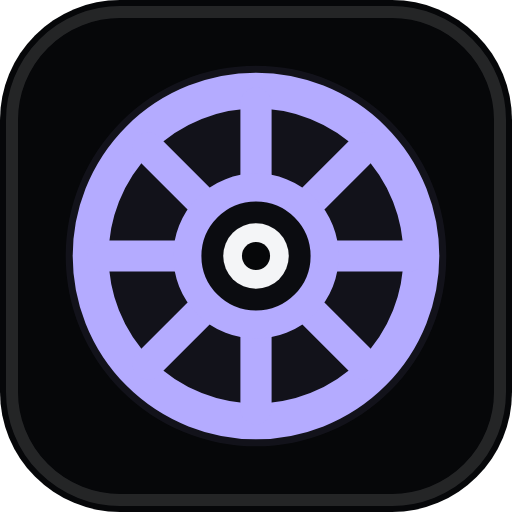
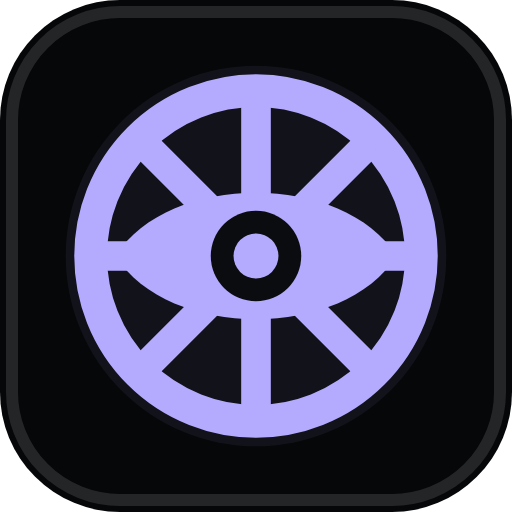
feat: emblème de la roue à œil en amande, pilule contextuelle du profil, actions de palette, documentation de la passe UI

diff --git a/src/components/layout/Nav.tsx b/src/components/layout/Nav.tsx
@@ -3,6 +3,8 @@ import { NavLink, useLocation } from "react-router";
 import { Kbd, cn } from "@/components/ui";
 import { SteamButton } from "@/features/auth/SteamButton";
 import { useSession } from "@/features/auth/useSession";
+import { RankBadge } from "@/components/media/RankBadge";
+import { useNavSubject } from "./navContext";
 import { MobileMenu } from "./MobileMenu";
 import { UserMenu } from "./UserMenu";
 import { Wordmark } from "./Wordmark";
@@ -29,9 +31,14 @@ export function Nav({ onOpenSearch }: { onOpenSearch: () => void }) {
   const { pathname } = useLocation();
   const [scrolled, setScrolled] = useState(false);
   const [menuOpen, setMenuOpen] = useState(false);
+  const subject = useNavSubject();
+  const [deep, setDeep] = useState(false);
 
   useEffect(() => {
-    const onScroll = () => setScrolled(window.scrollY > 8);
+    const onScroll = () => {
+      setScrolled(window.scrollY > 8);
+      setDeep(window.scrollY > 320);
+    };
     onScroll();
     window.addEventListener("scroll", onScroll, { passive: true });
     return () => window.removeEventListener("scroll", onScroll);
@@ -62,25 +69,39 @@ export function Nav({ onOpenSearch }: { onOpenSearch: () => void }) {
       >
         <Wordmark />
 
-        <nav
-          aria-label="Navigation principale"
-          className="ml-2 hidden items-center gap-0.5 md:flex"
-        >
-          {links.map((link) => (
-            <NavLink
-              key={link.to}
-              to={link.to}
-              className={({ isActive }) =>
-                cn(
-                  "pressable hover-text rounded-full px-3.5 py-1.5 text-sm",
-                  isActive ? "bg-surface-strong text-text" : "text-muted",
-                )
-              }
-            >
-              {link.label}
-            </NavLink>
-          ))}
-        </nav>
+        {subject && deep ? (
+          <div
+            className="ml-2 hidden min-w-0 items-center gap-2.5 rounded-full py-1 pr-3 pl-1.5 md:flex"
+            style={{
+              background: `color-mix(in srgb, ${subject.color ?? "#8B7CFF"} 16%, transparent)`,
+            }}
+            aria-live="polite"
+          >
+            <RankBadge name={subject.rankName} imageUrl={subject.rankImage} size="sm" />
+            <span className="truncate text-sm font-medium">{subject.name}</span>
+            {subject.rankName && <span className="text-xs text-muted">{subject.rankName}</span>}
+          </div>
+        ) : (
+          <nav
+            aria-label="Navigation principale"
+            className="ml-2 hidden items-center gap-0.5 md:flex"
+          >
+            {links.map((link) => (
+              <NavLink
+                key={link.to}
+                to={link.to}
+                className={({ isActive }) =>
+                  cn(
+                    "pressable hover-text rounded-full px-3.5 py-1.5 text-sm",
+                    isActive ? "bg-surface-strong text-text" : "text-muted",
+                  )
+                }
+              >
+                {link.label}
+              </NavLink>
+            ))}
+          </nav>
+        )}
 
         <div className="ml-auto flex items-center gap-2">
           <button

diff --git a/src/components/brand/wheel.tsx b/src/components/brand/wheel.tsx
@@ -1,52 +1,46 @@
 /**
- * Médaillon : roue à huit rayons et œil central, dans l'esprit de l'emblème du jeu.
- * Dessin vectoriel refait à la main (jamais calqué sur l'image officielle).
- * Repère : centré en (0, 0), rayon extérieur 5,3.
+ * Médaillon : roue à huit rayons et œil central en amande (iris cerclé, pupille),
+ * dessiné à la main d'après la silhouette de l'emblème du jeu. Centré en (0, 0), rayon 5,3.
  */
+export const ALMOND = "M-4.5 0C-2.8 -2.7 2.8 -2.7 4.5 0C2.8 2.7 -2.8 2.7 -4.5 0Z";
+
 const SPOKES = Array.from({ length: 8 }, (_, i) => {
   const a = (i * Math.PI) / 4;
+  const f = (n: number) => n.toFixed(2);
   return {
     key: i,
-    x1: (Math.cos(a) * 2.2).toFixed(2),
-    y1: (Math.sin(a) * 2.2).toFixed(2),
-    x2: (Math.cos(a) * 4.9).toFixed(2),
-    y2: (Math.sin(a) * 4.9).toFixed(2),
+    d: `M${f(Math.cos(a) * 1.5)} ${f(Math.sin(a) * 1.5)}L${f(Math.cos(a) * 4.75)} ${f(Math.sin(a) * 4.75)}`,
   };
 });
 
+/** Anneau extérieur et huit rayons (tourne au chargement). */
 export function WheelRing({ stroke }: { stroke: string }) {
   return (
     <>
-      <circle r="5.3" fill="none" stroke={stroke} strokeWidth="1.15" />
+      <circle r="5.3" fill="none" stroke={stroke} strokeWidth="1.05" />
       {SPOKES.map((s) => (
-        <path
-          key={s.key}
-          d={`M${s.x1} ${s.y1}L${s.x2} ${s.y2}`}
-          stroke={stroke}
-          strokeWidth="1"
-          strokeLinecap="round"
-        />
+        <path key={s.key} d={s.d} stroke={stroke} strokeWidth="0.95" strokeLinecap="round" />
       ))}
     </>
   );
 }
 
+/** Amande de l'œil, iris (fond) et pupille. `pupil` peut être décalée (suivi du pointeur). */
 export function WheelEye({
-  stroke,
+  ink,
   iris,
-  pupil,
-  eyeBg,
+  pupilOffset = { x: 0, y: 0 },
 }: {
-  stroke: string;
+  ink: string;
+  /** Couleur du fond de l'iris (le noir du site ou le violet en version blanche). */
   iris: string;
-  pupil: string;
-  eyeBg: string;
+  pupilOffset?: { x: number; y: number };
 }) {
   return (
     <>
-      <circle r="2.2" fill={eyeBg} stroke={stroke} strokeWidth="0.9" />
-      <circle r="1.05" fill={iris} />
-      <circle r="0.45" fill={pupil} />
+      <path d={ALMOND} fill={ink} />
+      <circle r="1.45" fill={iris} />
+      <circle r="0.72" fill={ink} transform={`translate(${pupilOffset.x} ${pupilOffset.y})`} />
     </>
   );
 }

diff --git a/src/components/brand/BrandMark.tsx b/src/components/brand/BrandMark.tsx
@@ -1,5 +1,5 @@
 import { useEffect, useId, useRef, useState } from "react";
-import { WheelRing } from "./wheel";
+import { ALMOND, WheelRing } from "./wheel";
 
 interface BrandMarkProps {
   size?: number;
@@ -81,7 +81,7 @@ export function BrandMark({ size = 30, loading = false, className }: BrandMarkPr
     >
       <defs>
         <clipPath id={clipId}>
-          <circle r="2.2" />
+          <circle r="1.45" />
         </clipPath>
       </defs>
       <g
@@ -106,21 +106,21 @@ export function BrandMark({ size = 30, loading = false, className }: BrandMarkPr
           strokeLinecap="round"
         />
         <path d="M7 13h2M25 13h-2" stroke="#B4ABFF" strokeWidth="1.3" strokeLinecap="round" />
-        <g transform="translate(16 13) scale(.95)">
+        <g transform="translate(16 13) scale(1.08)">
           <circle r="6.1" fill="#B4ABFF" fillOpacity=".07" />
           <g className="ring">
             <WheelRing stroke="#B4ABFF" />
           </g>
           <g className="eye-open">
             <g className="eye">
-              <circle r="2.2" fill="#0b0c10" stroke="#B4ABFF" strokeWidth="0.9" />
+              <path d={ALMOND} fill="#B4ABFF" />
+              <circle r="1.45" fill="#0b0c10" />
               <g clipPath={`url(#${clipId})`}>
                 <g
                   className="look"
-                  style={{ transform: `translate(${look.x * 0.6}px, ${look.y * 0.6}px)` }}
+                  style={{ transform: `translate(${look.x * 0.45}px, ${look.y * 0.45}px)` }}
                 >
-                  <circle r="1.05" fill="#F4F5F7" />
-                  <circle r="0.45" fill="#060709" />
+                  <circle r="0.72" fill="#B4ABFF" />
                 </g>
               </g>
             </g>

diff --git a/src/components/layout/CommandPalette.tsx b/src/components/layout/CommandPalette.tsx
@@ -6,6 +6,8 @@ import { logout } from "@/api";
 import { HeroPortrait } from "@/components/media/HeroPortrait";
 import { Avatar, Dialog, Kbd, Spinner, cn } from "@/components/ui";
 import { useSession } from "@/features/auth/useSession";
+import { useNavSubject } from "./navContext";
+import { copyText } from "@/lib/clipboard";
 import { useHeroes } from "@/features/heroes/hooks";
 import { usePlayerSearch } from "@/features/players/hooks";
 import { clearRecents, rememberPlayer, useRecentPlayers } from "@/features/search/recents";
@@ -133,6 +135,7 @@ export function CommandPalette({ open, onOpenChange }: CommandPaletteProps) {
   const navigate = useNavigate();
   const session = useSession();
   const heroes = useHeroes();
+  const subject = useNavSubject();
   const recents = useRecentPlayers();
   const [query, setQuery] = useState("");
 
@@ -170,6 +173,27 @@ export function CommandPalette({ open, onOpenChange }: CommandPaletteProps) {
   ].filter((p) => !needle || p.label.toLowerCase().includes(needle));
 
   const actions = [
+    ...(subject
+      ? [
+          {
+            value: "copy-link",
+            label: `Copier le lien de ${subject.name}`,
+            hint: "Profil public",
+            run: () => {
+              void copyText(window.location.href, "Lien copié");
+              close(false);
+            },
+            icon: glyphs.user,
+          },
+          {
+            value: "see-matches",
+            label: `Voir les parties de ${subject.name}`,
+            hint: "Onglet Parties",
+            run: () => go(`/players/${subject.steamId}?tab=matches`),
+            icon: glyphs.clock,
+          },
+        ]
+      : []),
     ...(session
       ? [
           {

diff --git a/src/pages/PlayerPage.tsx b/src/pages/PlayerPage.tsx
@@ -13,6 +13,7 @@ import { MatchesTab } from "@/features/players/profile/MatchesTab";
 import { OverviewTab } from "@/features/players/profile/OverviewTab";
 import { ProfileBanner } from "@/features/players/profile/ProfileBanner";
 import { useProfileData } from "@/features/players/profile/useProfileData";
+import { setNavSubject } from "@/components/layout/navContext";
 import { rememberPlayer } from "@/features/search/recents";
 import { FollowButton } from "@/features/tracked-players/FollowButton";
 
@@ -46,6 +47,17 @@ function Body({
   const data = useProfileData(steamId);
   const { history, stats } = data;
   const heroColor = data.mainHero?.color;
+  const { player: p0, rank: r0 } = profile;
+  useEffect(() => {
+    setNavSubject({
+      steamId: p0.steamId,
+      name: p0.displayName,
+      rankName: r0.name,
+      rankImage: r0.imageUrl,
+      color: heroColor,
+    });
+    return () => setNavSubject(null);
+  }, [p0.steamId, p0.displayName, r0.name, r0.imageUrl, heroColor]);
   const coverage = `Calculé sur ${history.loaded} partie${history.loaded > 1 ? "s" : ""} disponible${history.loaded > 1 ? "s" : ""} via Deadlock API, projet communautaire indépendant de Valve.${profile.meta.isPartial ? " Données partielles : l'historique peut être incomplet." : " L'historique peut être incomplet."} KDA = (éliminations + assistances) / max(morts, 1), calculé sur les sommes. Valeur nette par minute = valeur nette / durée.`;
 
   const loading = history.isPending;

diff --git a/src/components/brand/Medallion.tsx b/src/components/brand/Medallion.tsx
@@ -2,7 +2,7 @@ import { WheelEye, WheelRing } from "./wheel";
 
 interface MedallionProps {
   size?: number;
-  /** « white » : tout en blanc, pupille violette, pour poser sur un fond violet. */
+  /** « white » : tout en blanc, iris violet, pour poser sur un fond violet. */
   variant?: "color" | "white";
   className?: string;
   title?: string;
@@ -11,7 +11,7 @@ interface MedallionProps {
 /** Médaillon seul et statique : footer, favicon, avatars de partage. */
 export function Medallion({ size = 26, variant = "color", className, title }: MedallionProps) {
   const white = variant === "white";
-  const stroke = white ? "#fff" : "#B4ABFF";
+  const ink = white ? "#fff" : "#B4ABFF";
   return (
     <svg
       viewBox="0 0 32 32"
@@ -24,14 +24,9 @@ export function Medallion({ size = 26, variant = "color", className, title }: Me
       aria-hidden={title ? undefined : true}
     >
       <g transform="translate(16 16) scale(2.6)">
-        <circle r="6.1" fill={stroke} fillOpacity=".07" />
-        <WheelRing stroke={stroke} />
-        <WheelEye
-          stroke={stroke}
-          iris={white ? "#fff" : "#F4F5F7"}
-          pupil={white ? "#4A3BD8" : "#060709"}
-          eyeBg={white ? "#4A3BD8" : "#0b0c10"}
-        />
+        <circle r="6.1" fill={ink} fillOpacity=".07" />
+        <WheelRing stroke={ink} />
+        <WheelEye ink={ink} iris={white ? "#4A3BD8" : "#0b0c10"} />
       </g>
     </svg>
   );

diff --git a/src/components/layout/navContext.ts b/src/components/layout/navContext.ts
@@ -1,0 +1,29 @@
+import { useSyncExternalStore } from "react";
+
+export interface NavSubject {
+  steamId: string;
+  name: string;
+  rankName: string | null;
+  rankImage: string | null | undefined;
+  color: string | undefined;
+}
+
+let subject: NavSubject | null = null;
+const listeners = new Set<() => void>();
+
+/** Joueur affiché : la pilule du header peut le rappeler au défilement, la palette propose ses actions. */
+export function setNavSubject(next: NavSubject | null): void {
+  subject = next;
+  listeners.forEach((l) => l());
+}
+
+export function useNavSubject(): NavSubject | null {
+  return useSyncExternalStore(
+    (cb) => {
+      listeners.add(cb);
+      return () => listeners.delete(cb);
+    },
+    () => subject,
+    () => null,
+  );
+}

diff --git a/src/components/layout/Wordmark.tsx b/src/components/layout/Wordmark.tsx
@@ -9,7 +9,7 @@ export function Wordmark({ animated = true }: { animated?: boolean }) {
       aria-label="The Baroness, accueil"
       className="pressable inline-flex items-center gap-2 rounded-md whitespace-nowrap"
     >
-      {animated && <BrandMark size={30} />}
+      {animated && <BrandMark size={34} />}
       <span className="text-[19px] leading-none font-semibold tracking-[-0.045em] text-text lowercase">
         the baroness.
       </span>

diff --git a/docs/HANDOFF.md b/docs/HANDOFF.md
@@ -4,7 +4,7 @@ Fichier de liaison entre le Claude du front (`thebaroness`) et celui du back (`t
 Il est mis à jour à chaque rapport du front. Le Claude du back le lit en premier : `git -C ../thebaroness pull` puis ce fichier.
 Pendant côté back : `docs/HANDOFF.md` du back, lu par le front à chaque session.
 
-Dernière mise à jour : 16/11/2026 (voir `git log -- docs/HANDOFF.md` pour le SHA). Back relu au commit `3303b45` (contrat v1.4.1 recopié).
+Dernière mise à jour : 16/11/2026 (voir `git log -- docs/HANDOFF.md` pour le SHA). Back relu au commit `61860a1` (contrat v1.6.0).
 
 ## Décision à appliquer côté back : données de jeu en anglais
 
@@ -47,8 +47,19 @@ Tout est écrit contre `src/api/types.ts` et testé en mock (`npm run dev:mock`)
 2. Front : `npm ci` puis `npm run dev`. Le proxy Vite envoie `/api` vers `http://localhost:3001`.
 3. Sans back : `npm run dev:mock` (MSW).
 
+## Demandes au back (sans bloquer, le front s'en passe aujourd'hui)
+
+1. Mode de partie (classé ou normal) dans `MatchSummary` : permettrait de filtrer et de comparer le classé.
+2. Historique de rang d'un joueur seul, `GET /players/:steamId/rank-history` (comme `rankHistory` des groupes) : courbe de progression sur le profil.
+3. Paramètre `limit` documenté et fenêtre d'historique plus large : le front charge jusqu'à 200 parties (4 pages de 50).
+4. Dégâts, soins et objets dans le détail de partie, si la source les fournit.
+5. Rang du joueur dans le classement (`badge` est souvent null).
+6. Taux de victoire d'un joueur par héros avec période (`?period=`).
+7. Statistiques de méta de tous les héros en une requête (`GET /heroes/stats`) : tri du catalogue par taux de victoire et de choix, sans 42 appels.
+
 ## Journal des changements de contrat (du plus récent au plus ancien)
 
+- 16/11/2026 : grande passe identité et UI. Le front utilise désormais `POST /players/:steamId/refresh` (bouton Actualiser, pause de 60 s) et `POST /groups/:id/refresh`, charge l'historique par pages de 50 jusqu'à 200 parties (`limit=50`), et appelle `GET /heroes/:id/stats` pour les 12 héros les plus joués d'un profil (écart face à la méta). Aucun DTO modifié.
 - 16/11/2026 : back v1.4.1 testé en réel depuis le front (Docker Compose, `npm run dev`) : catalogue, rangs, carte, recherche, profil, historique, classement, fiche héros fonctionnent. Aucun écart de forme relevé. Côté front : avatar de repli si l'image Steam ne charge pas, pas de pastille vide dans le classement sans badge.
 - 16/11/2026 : palette ⌘K refaite (recherche de joueurs en direct via `GET /api/players/search`, récents gardés dans le navigateur, héros, actions, pages), connexion, comparaison de groupe adaptée au mobile. Aucun DTO ni route modifié. Le front appelle `players/search` après 220 ms de pause de frappe, 2 caractères minimum.
 - 16/11/2026 : types alignés sur l'OpenAPI 1.3.0 (`LeaderboardEntry.badge` nullable, `MatchDetail.playedAt` et `winningSide` nullables, score de rang max 72). Décision « données de jeu en anglais, rangs compris ».

diff --git a/docs/decisions.md b/docs/decisions.md
@@ -100,3 +100,12 @@ Les données de jeu viennent de Deadlock API en anglais et restent en anglais (n
 - Récents : derniers profils consultés (SteamID, pseudo, avatar) dans `localStorage`, bouton « Effacer ». Données publiques seulement, jamais le jeton.
 - Filet de sécurité : page d'erreur de route, restauration du défilement, focus rendu au contenu après navigation, favicon et balises de partage.
 - Tests de bout en bout Playwright : les parcours décrits (`e2e/`) datent d'avant la refonte (recherche, onglets du profil, palette) et sont à reprendre. Les tests Vitest (31) sont à jour.
+
+## Identité, kit de graphes et couleurs (grande passe UI)
+
+- Marque : chariot du Baroness Hotel portant un médaillon à roue de huit rayons et œil central, dessiné à la main dans l'esprit de l'emblème du jeu (demande de l'équipe). L'emblème de Deadlock est une marque de Valve : le dessin est une évocation originale, pas un calque. Risque d'usage à valider avec l'encadrant avec les autres visuels Valve (cahier, section 22). Version animée dans le header et au chargement, médaillon statique dans le footer, favicon et image de partage (`npm run` non requis, script `scripts/build-brand.mjs`, rendu par Chromium de Playwright).
+- Couleur contextuelle : chaque héros a une couleur d'affichage vive (`src/lib/color.ts`, teinte du catalogue, saturation et luminosité minimales, héros presque gris sur la couleur de leur rôle). Elle colore cartes, bannières, barres et lueurs via `--hc`. Les cartes de chiffres du profil ont leur propre teinte (vert, violet, ambre, bleu).
+- Kit de graphes en SVG fait main (`src/components/charts`) : zone avec référence et clavier, anneau, donut, histogramme, bullet, calendrier, heures, radar, progression de rang, forme et écart. Chaque graphe passe par `ChartFrame` : résumé lu à voix haute, bouton « Voir les données », état « pas assez de parties » honnête, révélation de gauche à droite une seule fois par page.
+- Statistiques dérivées dans `src/lib/stats.ts` (fonctions pures, tests unitaires) : KDA global sur les sommes, valeur nette par minute, victoires glissantes, écart sur 20 parties, séries, rôles, écart face à la méta, distributions, calendrier UTC, heures de Paris.
+- Profil : bannière aux couleurs du héros principal, actualisation (pause de 60 s), partage, onglet dans l'URL, barre d'onglets collante, pilule du header qui rappelle le joueur au défilement, palette avec actions contextuelles.
+- Écarts avec le brief : pas de tri du catalogue par taux de victoire (demande au back), pas de radar de stats de héros (valeurs non comparables), pas de progression de rang d'un joueur seul (demande au back), les tests e2e Playwright restent à reprendre.
